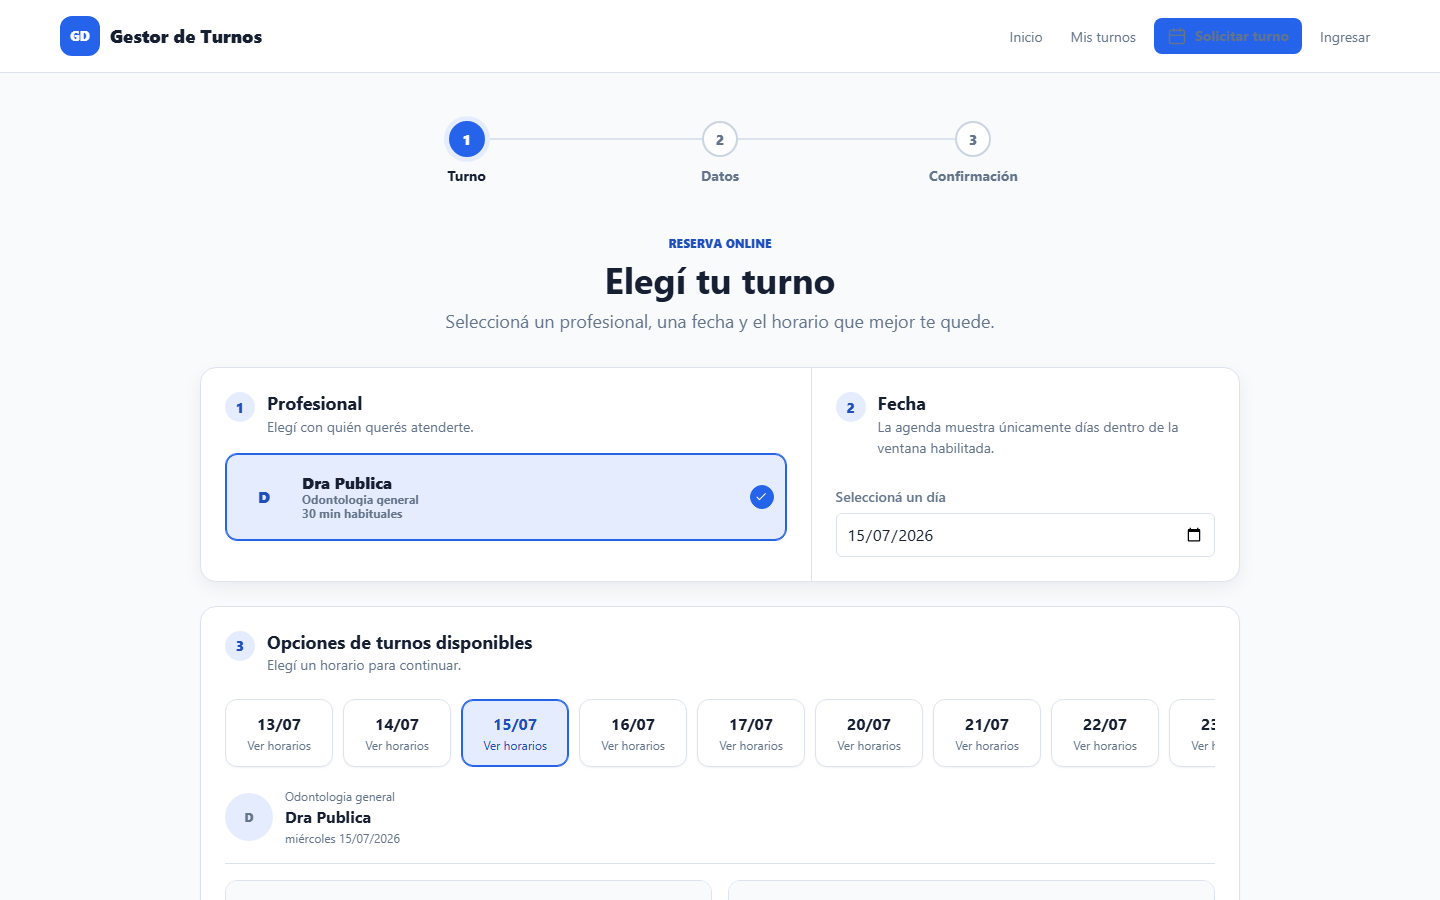
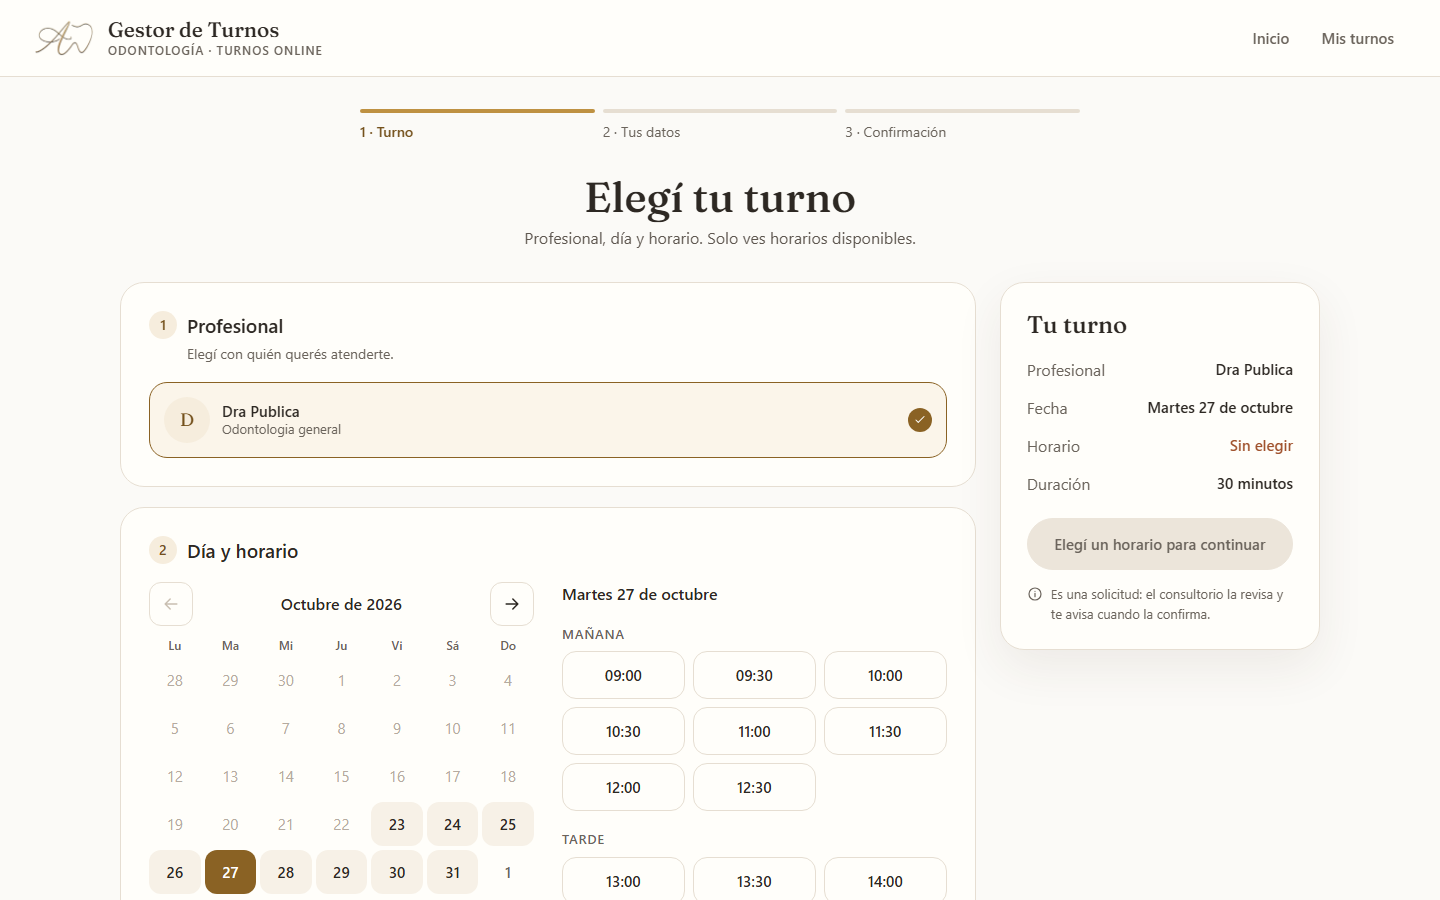
chore(publico): accesibilidad, tests, capturas y docs del rediseno V3
Paso 7 del rediseno publico V3 (docs/rediseno-publico-v3/SPEC.md).

- Auditoria con axe-core (WCAG 2.x A/AA y best practices) en todas las
  pantallas publicas a 1440x900 y 390x844: se agrega el h2 oculto de
  beneficios para respetar el orden de encabezados.
- Movil: la tira de dias respeta el padding al hacer scroll-snap.
- E2E: nuevo recorrido de acceso con codigo, mis turnos y reprogramar
  con control de scroll horizontal en ambos tamanos; el flujo con agenda
  inteligente ya no depende de que queden horarios hoy.
- Capturas publicas regeneradas y nuevas (datos, acceso, mis turnos).
- Docs: nuevo ui-ux-v3.md y referencias desde design-system, ui-ux-v2,
  el plan anterior y el README.
- Se eliminan ilustraciones que quedaron sin uso (booking-success.svg y
  secure-access.svg).

diff --git a/app/turnos/templates/turnos/includes/public_benefits.html b/app/turnos/templates/turnos/includes/public_benefits.html
@@ -1,4 +1,5 @@
-<section class="public-benefits" aria-label="Beneficios de los turnos online">
+<section class="public-benefits" aria-labelledby="benefits-title">
+    <h2 class="sr-only" id="benefits-title">Beneficios de los turnos online</h2>
     <article class="public-benefit">
         <span class="public-benefit-icon" aria-hidden="true">{% include "includes/icon.html" with name="clock" %}</span>
         <div><h3>Atención rápida</h3><p>Encontrá horarios disponibles fácilmente.</p></div>

diff --git a/app/static/css/responsive.css b/app/static/css/responsive.css
@@ -1671,6 +1671,7 @@
         overflow-x: auto;
         overscroll-behavior-x: contain;
         padding: 2px 20px 6px;
+        scroll-padding-inline: 20px;
         scroll-snap-type: x proximity;
     }
 

diff --git a/app/turnos/tests_e2e/test_public_booking_smoke.py b/app/turnos/tests_e2e/test_public_booking_smoke.py
@@ -1,6 +1,7 @@
 import os
 from datetime import time, timedelta
 from pathlib import Path
+from unittest.mock import patch
 
 os.environ.setdefault("DJANGO_ALLOW_ASYNC_UNSAFE", "true")
 
@@ -12,6 +13,7 @@ from django.utils import timezone
 from playwright.sync_api import sync_playwright
 
 from consultorio.services import obtener_o_crear_configuracion_consultorio
+from pacientes.models import Paciente
 from turnos.models import (
     ConfiguracionAgendaInteligente,
     DisponibilidadOdontologo,
@@ -315,7 +317,10 @@ class PublicBookingSmokeE2ETests(StaticLiveServerTestCase):
         self.assertEqual(
             self.page.locator("[data-summary-duration]").text_content().strip(), "45 minutos"
         )
-        self.page.locator("[data-slot-group='recomendados']").wait_for()
+        # La fecha inicial es la mínima (puede ser hoy): según la hora puede no tener horarios.
+        self.page.locator(
+            "[data-public-results] [data-slot-group], [data-public-results] .public-booking-empty"
+        ).first.wait_for()
 
         self.page.locator("[data-public-calendar-toggle]").click()
         calendario_mes = self.page.locator("[data-public-calendar-month]")
@@ -437,6 +442,58 @@ class PublicBookingSmokeE2ETests(StaticLiveServerTestCase):
         self.page.wait_for_timeout(150)
         self._capture("public-booking-tablet.png")
         self._assert_no_horizontal_overflow()
+
+    def test_acceso_publico_y_mis_turnos_sin_scroll_horizontal(self):
+        paciente = Paciente.objects.create(
+            nombre="Lucia",
+            apellido="Acceso",
+            documento="46111222",
+            email="lucia.acceso@example.com",
+        )
+        Turno.objects.create(
+            paciente=paciente,
+            odontologo=self.odontologo,
+            fecha=self.fecha,
+            hora_inicio=time(11, 0),
+            duracion_minutos=30,
+            estado=Turno.Estado.PENDIENTE,
+            motivo="Control",
+        )
+
+        with patch("turnos.public_access.services.generar_codigo_otp", return_value="123456"):
+            for nombre, (width, height) in (("mobile", (390, 844)), ("desktop", (1440, 900))):
+                with self.subTest(viewport=nombre):
+                    self.context.clear_cookies()
+                    self.page.set_viewport_size({"width": width, "height": height})
+                    self.page.goto(
+                        f"{self.live_server_url}{reverse('turnos:acceso_publico_solicitar')}"
+                    )
+                    self._assert_no_horizontal_overflow()
+                    self.page.fill("input[name='documento']", paciente.documento)
+                    self.page.get_by_role("button", name="Enviar código de acceso").click()
+
+                    self.page.get_by_role("heading", name="Revisá tu email").wait_for()
+                    codigo = self.page.locator("input[name='codigo']")
+                    self.assertEqual(codigo.get_attribute("autocomplete"), "one-time-code")
+                    self._assert_no_horizontal_overflow()
+                    self._capture(f"public-access-{nombre}.png")
+                    codigo.fill("123456")
+                    self.page.get_by_role("button", name="Ingresar a mis turnos").click()
+
+                    self.page.get_by_role("heading", name="Tu próximo turno").wait_for()
+                    self.assertEqual(
+                        self.page.locator(".public-mine-next .public-status-chip").inner_text(),
+                        "Pendiente",
+                    )
+                    self._assert_no_horizontal_overflow()
+                    self._capture(f"public-my-appointments-{nombre}.png")
+
+                    self.page.locator(".public-mine-next").get_by_role(
+                        "link", name="Reprogramar"
+                    ).click()
+                    self.page.get_by_role("heading", name="Cambiar horario").wait_for()
+                    self.page.wait_for_load_state("networkidle")
+                    self._assert_no_horizontal_overflow()
 
     def test_landing_autenticada_conserva_shell_publico(self):
         self.page.set_viewport_size({"width": 390, "height": 844})

diff --git a/docs/ui-ux-v3.md b/docs/ui-ux-v3.md
@@ -1,0 +1,102 @@
+# Interfaz UI/UX V3: experiencia pública
+
+## Alcance
+
+El rediseño V3 cubre solo la experiencia pública del paciente: landing, elegí tu turno, tus datos,
+solicitud enviada, acceso con código, mis turnos y reprogramar. Continúa el plan de
+[`redesign_publico_pacientes_plan.md`](redesign_publico_pacientes_plan.md) y reemplaza la parte
+pública de [`ui-ux-v2.md`](ui-ux-v2.md). El panel interno no cambia.
+
+La especificación y las maquetas de referencia están en
+[`rediseno-publico-v3/`](rediseno-publico-v3/SPEC.md).
+
+Es una capa de presentación. El servidor sigue decidiendo disponibilidad, duración, elegibilidad,
+márgenes, idempotencia, CSRF, Turnstile y OTP. No cambian reglas de turnos, servicios, permisos,
+rate limiting ni modelos, y no hay migraciones.
+
+## Sistema visual
+
+- Tokens `--public-*` en `app/static/css/tokens.css`, que es la única fuente (el shell público ya
+  no los redefine). Nuevos: `--public-subtle`, `--public-border-strong`, `--public-gold-ink`,
+  `--public-gold-ink-hover`, `--public-green-ink`, `--public-warning-bg`/`-text`,
+  `--public-danger-bg` y `--public-font-serif`. `--public-muted` pasa a `#5E5750`.
+- El botón primario usa `--public-gold-ink` (`#8A6224`, texto blanco ≈ 5.4:1). El oro claro
+  `--public-gold` queda para bordes, números y foco.
+- Fraunces (OFL) se sirve desde `static/fonts/fraunces/` y solo se carga con
+  `usar_shell_publico`. No hay dependencias de servicios externos de fuentes.
+- Foco visible: `outline: 3px solid var(--public-gold)` con offset. Controles de al menos 44 px.
+- Estilos nuevos al final de `public.css` y `responsive.css`, en secciones "Rediseño público V3",
+  con prefijos propios por pantalla (`public-home-*`, `public-pick-*`, `public-patient-*`,
+  `public-received-*`, `public-access`, `public-mine-*`).
+
+## Componentes compartidos
+
+- **Header** (`includes/public_topbar.html`): marca en Fraunces, "Odontología · Turnos online",
+  navegación Inicio · Servicios · Equipo · Mis turnos (Servicios y Equipo solo en la landing y
+  si la sección existe) y CTA "Reservar turno". Variante mínima en Tus datos. En móvil, el menú
+  `details` existente. El acceso del personal pasó al footer.
+- **Stepper** (`turnos/includes/public_stepper.html`): tres barras con etiqueta; actual dorado
+  con `aria-current="step"`, completado verde con check. Desde Tus datos, el paso 1 vuelve a la
+  selección conservando profesional, fecha y motivo (`url_seleccion`).
+- **Footer** (`includes/public_footer.html`): solo en el shell público. `brand_footer.html`
+  sigue siendo el del panel interno.
+- **Chip de estado** (`turnos/includes/public_status_chip.html`): pendiente, confirmado y
+  cancelado, siempre con ícono y texto.
+- **Campos**: `includes/form_field.html` agrega `id` al error (para `aria-describedby`) y un
+  parámetro opcional `optional_note`.
+
+## Pantallas
+
+- **Landing**: hero, beneficios, motivos de consulta (solo con agenda inteligente; enlazan a la
+  selección con `?tipo_turno=`), cómo funciona, equipo, gestión de solicitudes, información del
+  consultorio abierta (cada dato respeta su `mostrar_*`, "Cómo llegar" a Google Maps sin iframe),
+  CTA final y CTA fija en móvil.
+- **Elegí tu turno**: tarjetas numeradas y resumen sticky; en móvil, barra fija con resumen
+  compacto. Profesionales y motivos como `radiogroup`. Calendario sobre el `input[type=date]`
+  canónico; en móvil la tira de días es la vista principal y el calendario queda detrás de
+  "Ver calendario" para no perder fechas fuera de los 14 días de la tira. Horarios en
+  "Recomendados", "Mañana" y "Tarde" con los grupos del servidor. `?tipo_turno=` sin
+  profesional preselecciona el motivo cuando el profesional elegido lo ofrece.
+- **Tus datos**: campos desde el form Django, errores con borde, fondo, ícono y `role="alert"`,
+  resumen "Tu turno" con "Cambiar".
+- **Solicitud enviada**: el envío sigue redirigiendo a la landing con un banner neutral. El mismo
+  bloque se usa en la vista OK, que solo agrega el detalle del turno cuando ya estaba en la
+  sesión.
+- **Acceso con código**: tarjeta centrada, código en un único campo con
+  `autocomplete="one-time-code"` y aviso de seguridad.
+- **Mis turnos**: "Tu próximo turno" es la primera cita futura; el resto va en "Otras
+  solicitudes" con "Gestionar". Reprogramar y cancelar siguen usando los mismos enlaces y POST
+  con token.
+
+## Decisiones sobre textos
+
+Ningún texto promete algo que el backend no hace:
+
+- Se habla de **solicitud** que el consultorio revisa; no de confirmación inmediata.
+- No se prometen recordatorios: `enviar_recordatorios_email` depende de una programación
+  externa que el repositorio no garantiza.
+- La nota de Tus datos dice que el horario se revalida al enviar y que, si ya no está libre, se
+  avisa para elegir otro. No se ofrecen alternativas automáticas.
+- La respuesta tras enviar es neutral (igual para todos los resultados), como exige
+  `docs/flujo-turnos.md`.
+- El reenvío de código muestra un aviso fijo con `TURNOS_PUBLIC_RESEND_SECONDS`. No hay cuenta
+  regresiva porque el cooldown real solo existe para DNIs registrados y la revelaría.
+- No se muestra email enmascarado ni "Hola, {nombre}": el contexto no los provee.
+
+## Accesibilidad
+
+Criterios del SPEC verificados con axe-core 4.10 (WCAG 2.0/2.1/2.2 A y AA más best practices)
+en todas las pantallas públicas a 1440 x 900 y 390 x 844, incluidos estados con errores y
+detalles abiertos: sin violaciones de contraste, nombres, roles ni tamaño de objetivos. La única
+observación restante proviene de `includes/messages.html` (compartido con el panel interno), que
+usa `role="status"` en un `li`.
+
+## Validación y capturas
+
+- E2E (`turnos/tests_e2e/test_public_booking_smoke.py`) en 1440 x 900 y 390 x 844, con
+  comprobación de scroll horizontal, incluido el flujo de acceso, mis turnos y reprogramar.
+- Las capturas se generan con `CAPTURE_UI_SCREENSHOTS=1`. Usar `UI_SCREENSHOT_DIR` y correr solo
+  el smoke público: el smoke interno escribe siempre en `docs/screenshots/`.
+- Capturas públicas en `docs/screenshots/`: `public-home-desktop.png`, `public-home-mobile.png`,
+  `public-booking-desktop.png`, `public-booking-mobile.png`, `public-data-desktop.png`,
+  `public-access-mobile.png` y `public-my-appointments-desktop.png`.

diff --git a/README.md b/README.md
@@ -15,7 +15,7 @@ La experiencia pública y el panel interno comparten un sistema visual responsiv
 | ![Landing pública en escritorio](docs/screenshots/public-home-desktop.png) | ![Dashboard interno en escritorio](docs/screenshots/internal-dashboard-desktop.png) |
 | ![Selección de horario en móvil](docs/screenshots/public-booking-mobile.png) | ![Dashboard interno en móvil](docs/screenshots/internal-dashboard-mobile.png) |
 
-Las referencias completas están en [`docs/screenshots/`](docs/screenshots/). El sistema de diseño y las decisiones de experiencia se documentan en [Design system](docs/design-system.md) e [Interfaz UI/UX V2](docs/ui-ux-v2.md).
+Las referencias completas están en [`docs/screenshots/`](docs/screenshots/). El sistema de diseño y las decisiones de experiencia se documentan en [Design system](docs/design-system.md), [Interfaz UI/UX V2](docs/ui-ux-v2.md) (panel interno) e [Interfaz UI/UX V3](docs/ui-ux-v3.md) (experiencia pública).
 
 ## Estado Actual
 

diff --git a/docs/design-system.md b/docs/design-system.md
@@ -59,7 +59,11 @@ En escritorio, el panel interno usa sidebar navy y topbar contextual. Hasta 767 
 
 ## Iconografía e ilustraciones
 
-`includes/icon.html` contiene SVG de trazo redondeado, `currentColor` y tamaño estable. Las ilustraciones originales están en `app/static/images/`: hero dental, calendario vacío, confirmación, sin resultados y acceso seguro.
+`includes/icon.html` contiene SVG de trazo redondeado, `currentColor` y tamaño estable. Las ilustraciones originales están en `app/static/images/`: hero dental, calendario vacío y sin resultados.
+
+## Experiencia pública V3
+
+La superficie pública usa los tokens `--public-*` (marfil, oro y verde salvia), Fraunces para titulares, botón primario en `--public-gold-ink` y componentes propios: header, stepper de barras, footer público y chip de estado. El detalle de pantallas, decisiones y criterios de accesibilidad está en [Interfaz UI/UX V3](ui-ux-v3.md).
 
 ## Movimiento
 

diff --git a/docs/ui-ux-v2.md b/docs/ui-ux-v2.md
@@ -6,6 +6,8 @@ El rediseño cubre la experiencia pública de pacientes y el panel interno de re
 
 ## Experiencia pública
 
+> La experiencia pública fue reemplazada por el rediseño V3: ver [Interfaz UI/UX V3](ui-ux-v3.md). Esta sección queda como referencia histórica.
+
 - Landing con marca en el primer viewport, CTA principal, garantías, explicación del proceso y profesionales reales.
 - Stepper semántico en Turno, Datos y Confirmación.
 - Selector visual de odontólogo sincronizado con el `select` de fallback.

diff --git a/docs/redesign_publico_pacientes_plan.md b/docs/redesign_publico_pacientes_plan.md
@@ -1,5 +1,7 @@
 # Rediseño público para pacientes
 
+> Continuado por el rediseño V3: ver [Interfaz UI/UX V3](ui-ux-v3.md).
+
 ## Objetivo
 
 Reconstruir la landing y los dos primeros pasos de la solicitud pública con la
